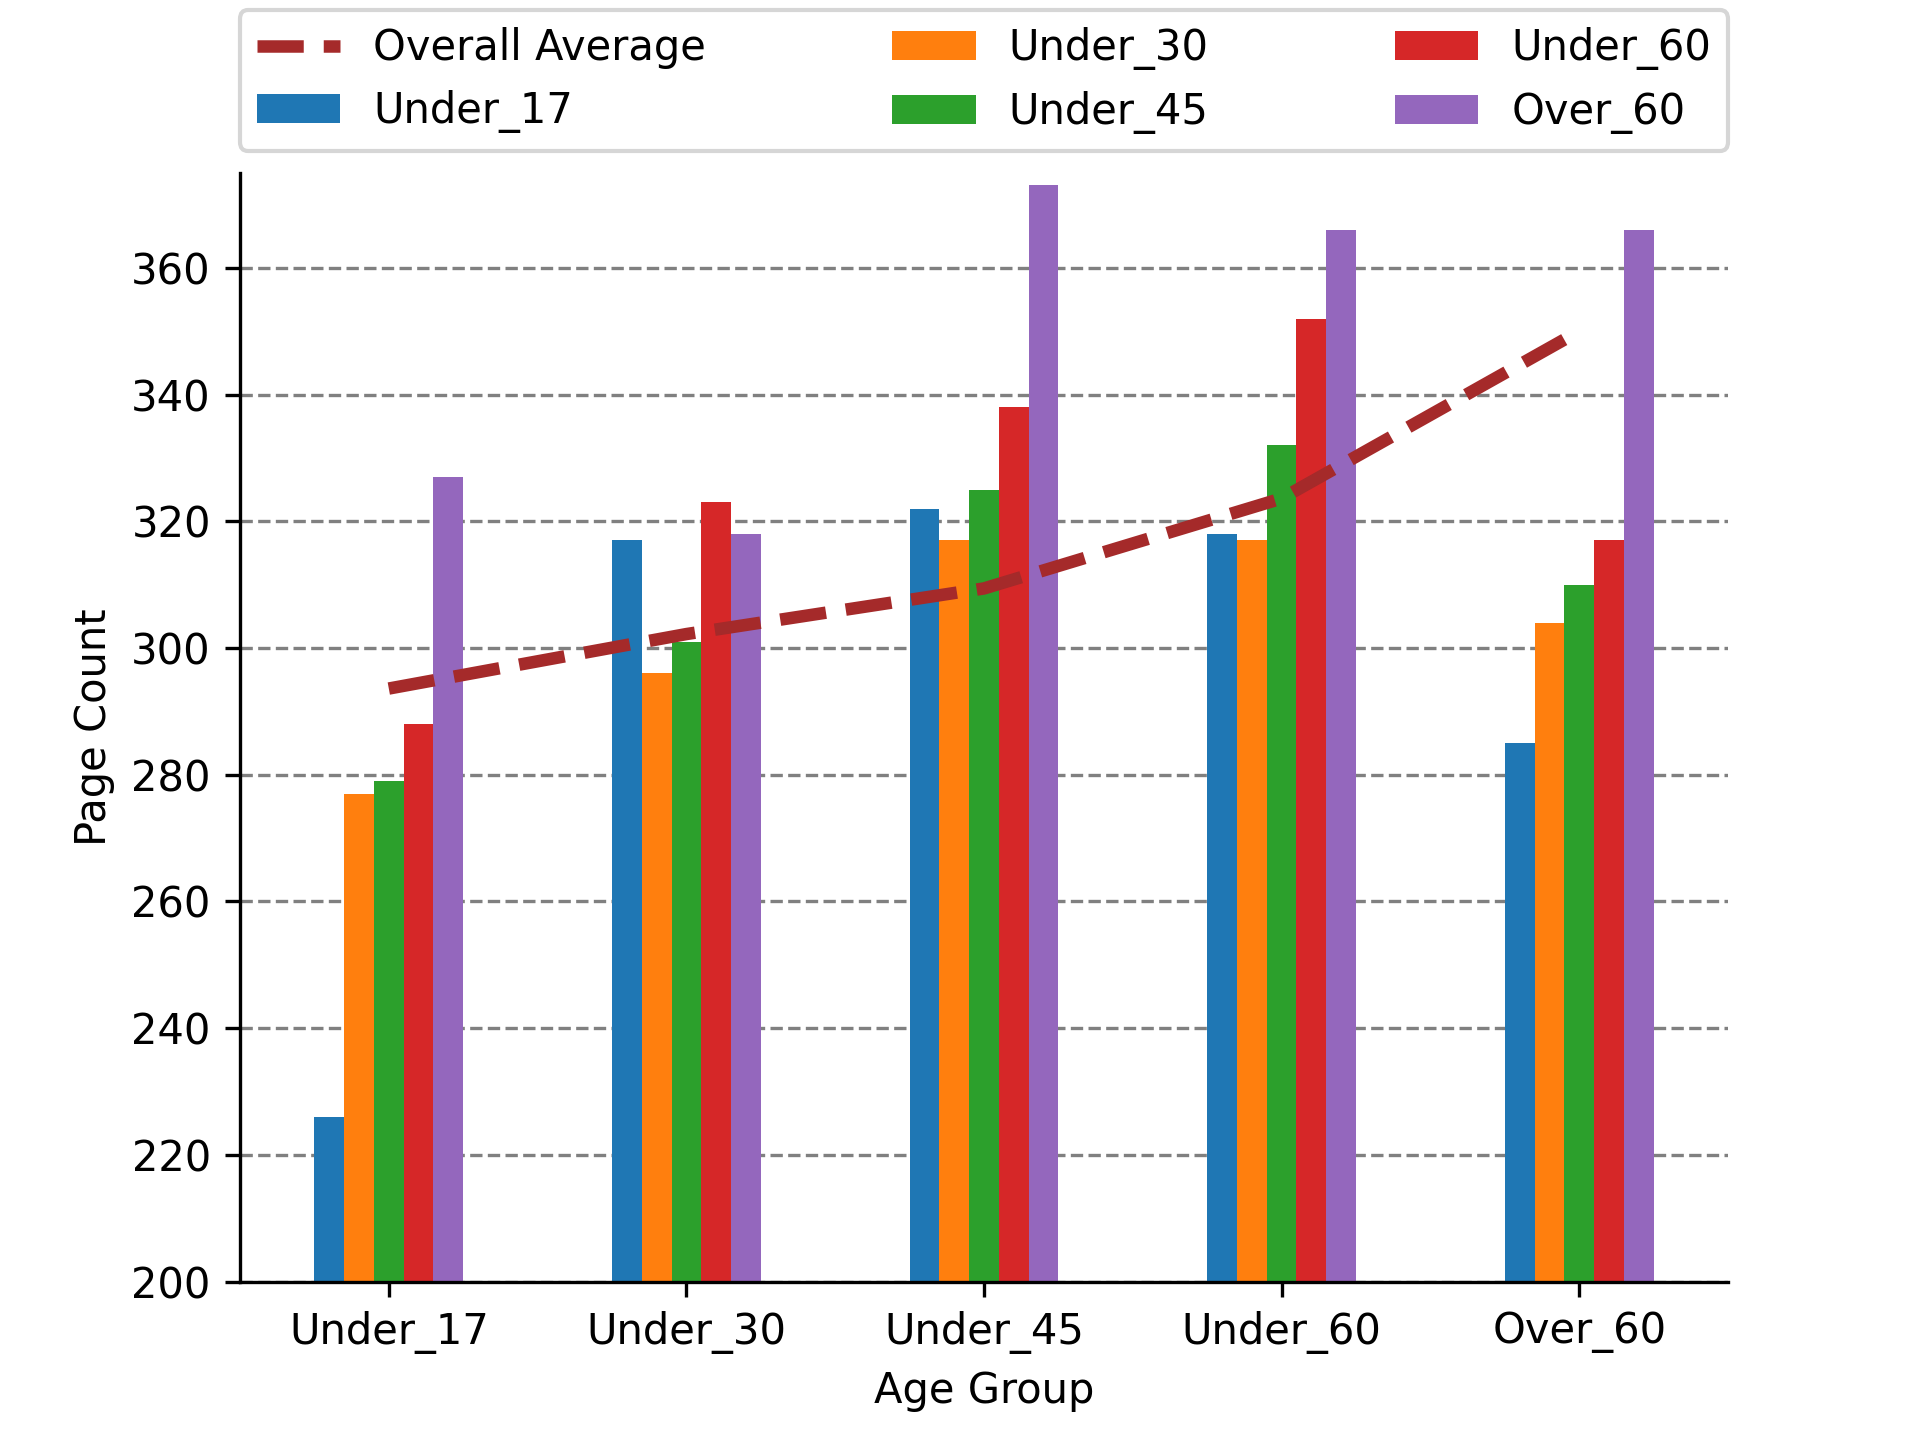
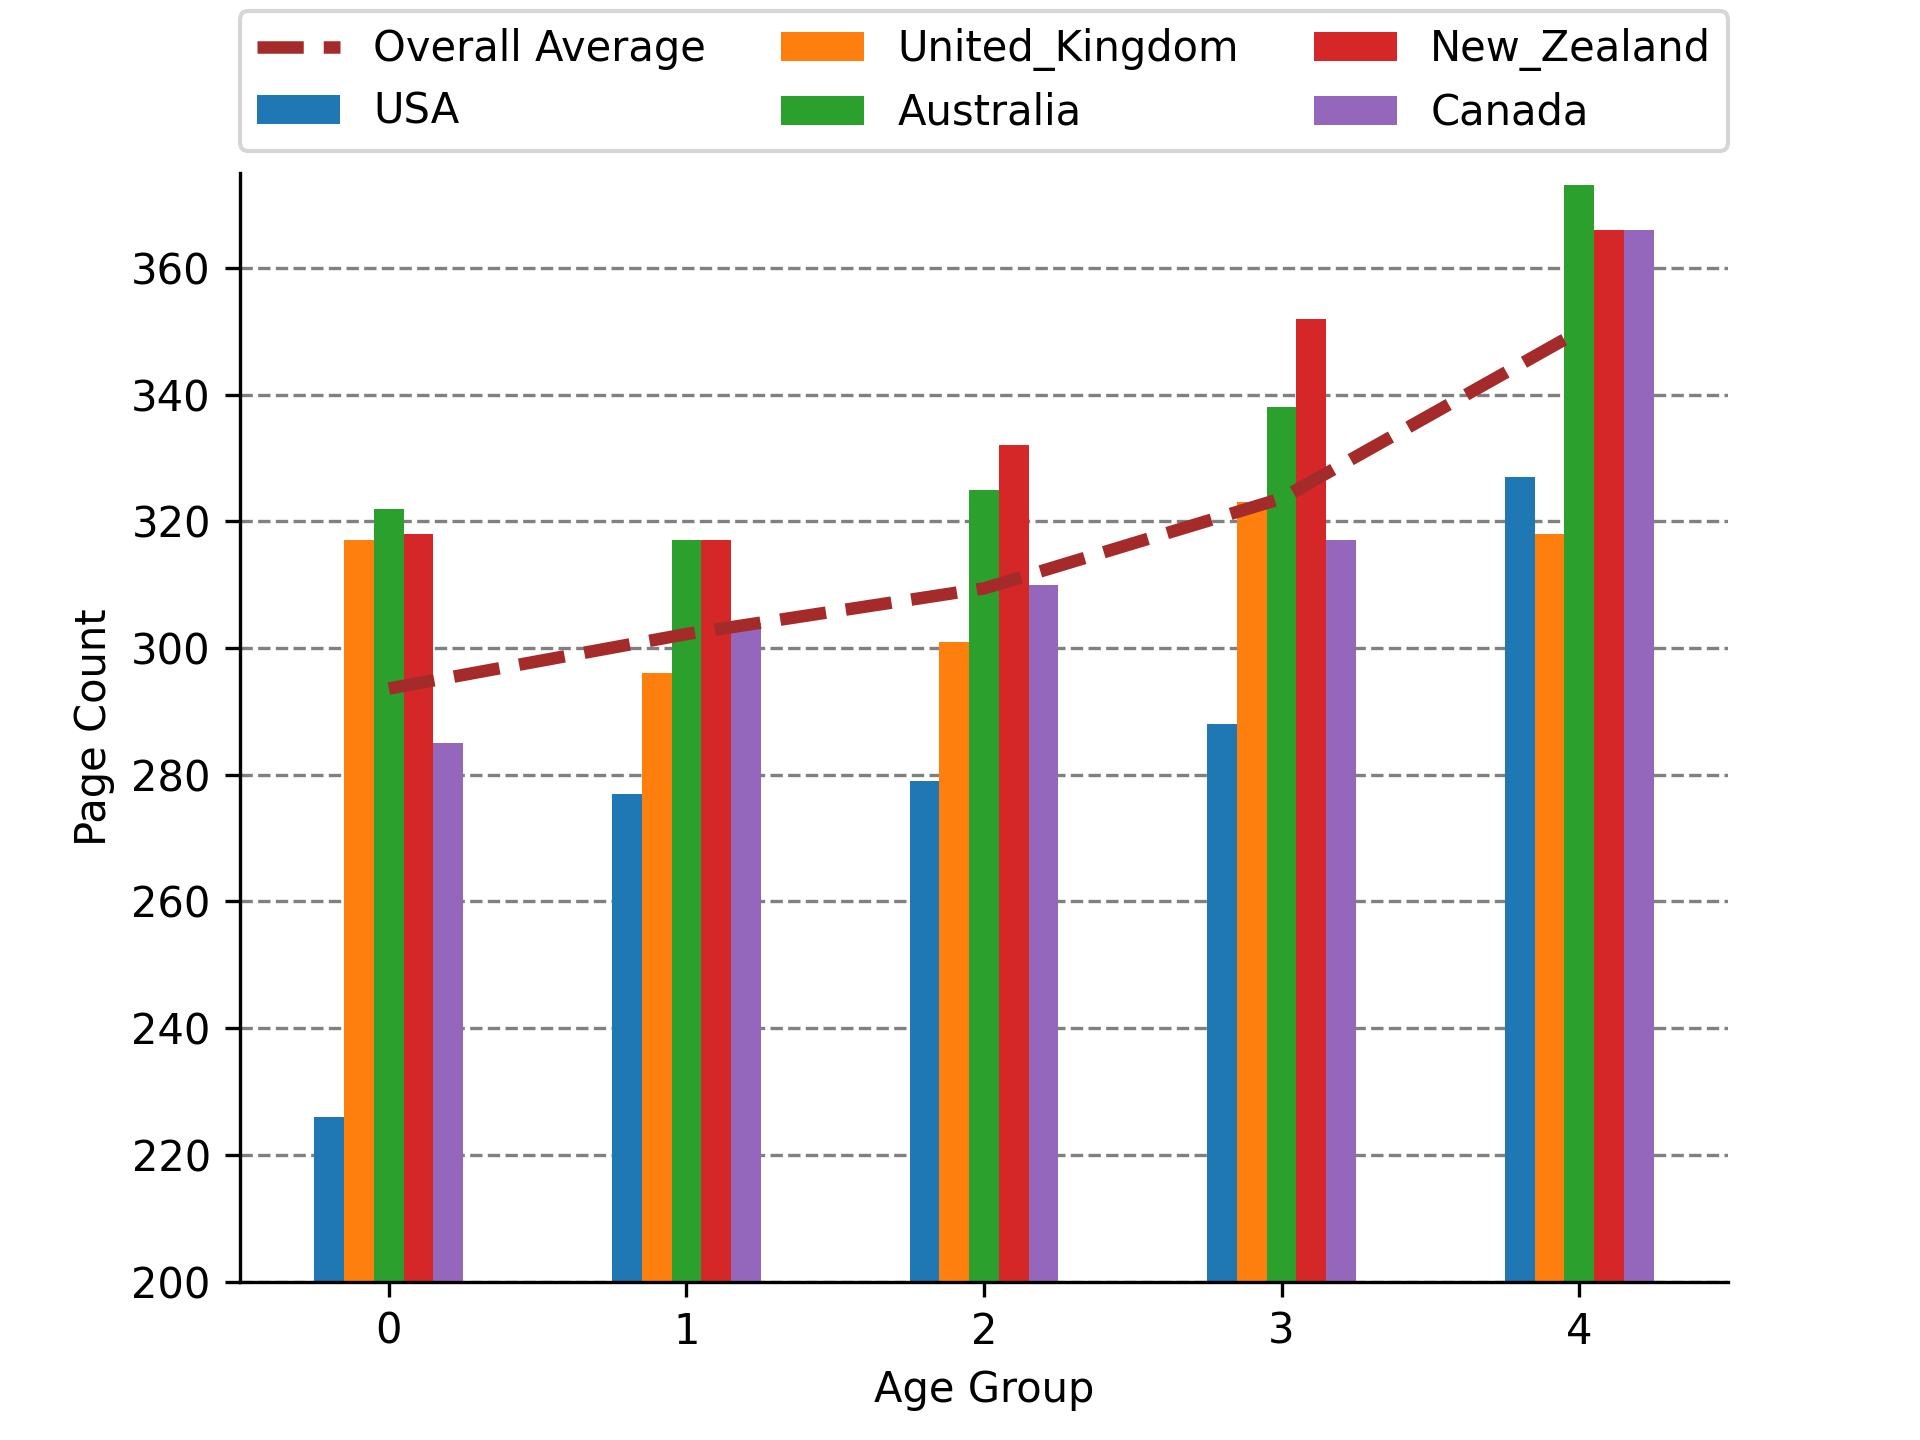
Added link to notebook and fixed mistake with average page counts

diff --git a/Analysis/visualise_stats.py b/Analysis/visualise_stats.py
@@ -15,7 +15,8 @@ import pandas as pd
 
 USER_DEMOGRAPHICS = pd.read_csv("../Data/Stats/user_demographics.csv", index_col=False)
 RATING_DEMOGRAPHICS = pd.read_csv("../Data/Processed/Part/rating_details.csv", index_col=False)
-MAX_SAMPLE_SIZE = len(RATING_DEMOGRAPHICS.index)
+MAX_SAMPLE_SIZE = 50
+# MAX_SAMPLE_SIZE = len(RATING_DEMOGRAPHICS.index)
 
 COUNTRIES = ["USA", "United_Kingdom", "Australia", "New_Zealand", "Canada"]
 AGES = ["Under_17", "Under_30", "Under_45", "Under_60", "Over_60"]
@@ -62,22 +63,24 @@ def plot_grouped_page_counts(sample_size):
     :param sample_size: The number of records to base the statistics of, can be set to None to poll entire dataset
     """
     if GENERATING_STATS_CSV:
-        average_country_pages = {"USA": [], "United_Kingdom": [], "Australia": [], "New_Zealand": [], "Canada": []}
+        average_country_pages = {"Age_Group": AGES, "USA": [], "United_Kingdom": [], "Australia": [], "New_Zealand": [],
+                                 "Canada": []}
 
         for country in COUNTRIES:
             for age_group in AGES:
                 page_count = stats(age_group, country, sample_size)[0]
                 average_country_pages[country].append(page_count)
 
-        average_country_pages_df = pd.DataFrame.from_dict(average_country_pages, orient="index", columns=AGES)
-        average_country_pages_df.to_csv("../Data/Stats/grouped_page_counts.csv")
-    else:
-        average_country_pages_df = pd.read_csv("../Data/Stats/grouped_page_counts.csv", usecols=AGES)
+        average_country_pages_df = pd.DataFrame.from_dict(average_country_pages)
+        average_country_pages_df.to_csv("../Data/Stats/grouped_page_counts.csv", index=False)
+
+    average_country_pages_df = pd.read_csv("../Data/Stats/grouped_page_counts.csv", usecols=COUNTRIES)
 
     # Bars
     ax = average_country_pages_df.plot.bar(rot=0, xlabel="Age Group", ylabel="Page Count")
     # Average line
-    average_country_pages_df.mean().plot(ax=ax, color="brown", linestyle="--", linewidth=3, label="Overall Average")
+    average_country_pages_df.mean(axis=1).plot(ax=ax, color="brown", linestyle="--", linewidth=3, label="Overall Average")
+    print(average_country_pages_df.mean(axis=1))
 
     ax.set_axisbelow(True)
     ax.yaxis.grid(color="gray", linestyle="dashed")

diff --git a/README.md b/README.md
@@ -19,3 +19,5 @@ For data expansion, such as categories Google's Books API was used to retrieve t
 Some basic data analysis has been performed and visualised, within Data/Visualisations, these visuals are currently a 
 work in progress with some using limited sample sizes and others just not polished. Nonetheless, they provide an insight 
 into the data used for this project and in turn its usability/reliability.
+
+A notebook exploring this visualisations can be found [here](https://colab.research.google.com/drive/10_sH0P2YNyV3ajmkeCcqTazToSzUVc2T?usp=sharing)
